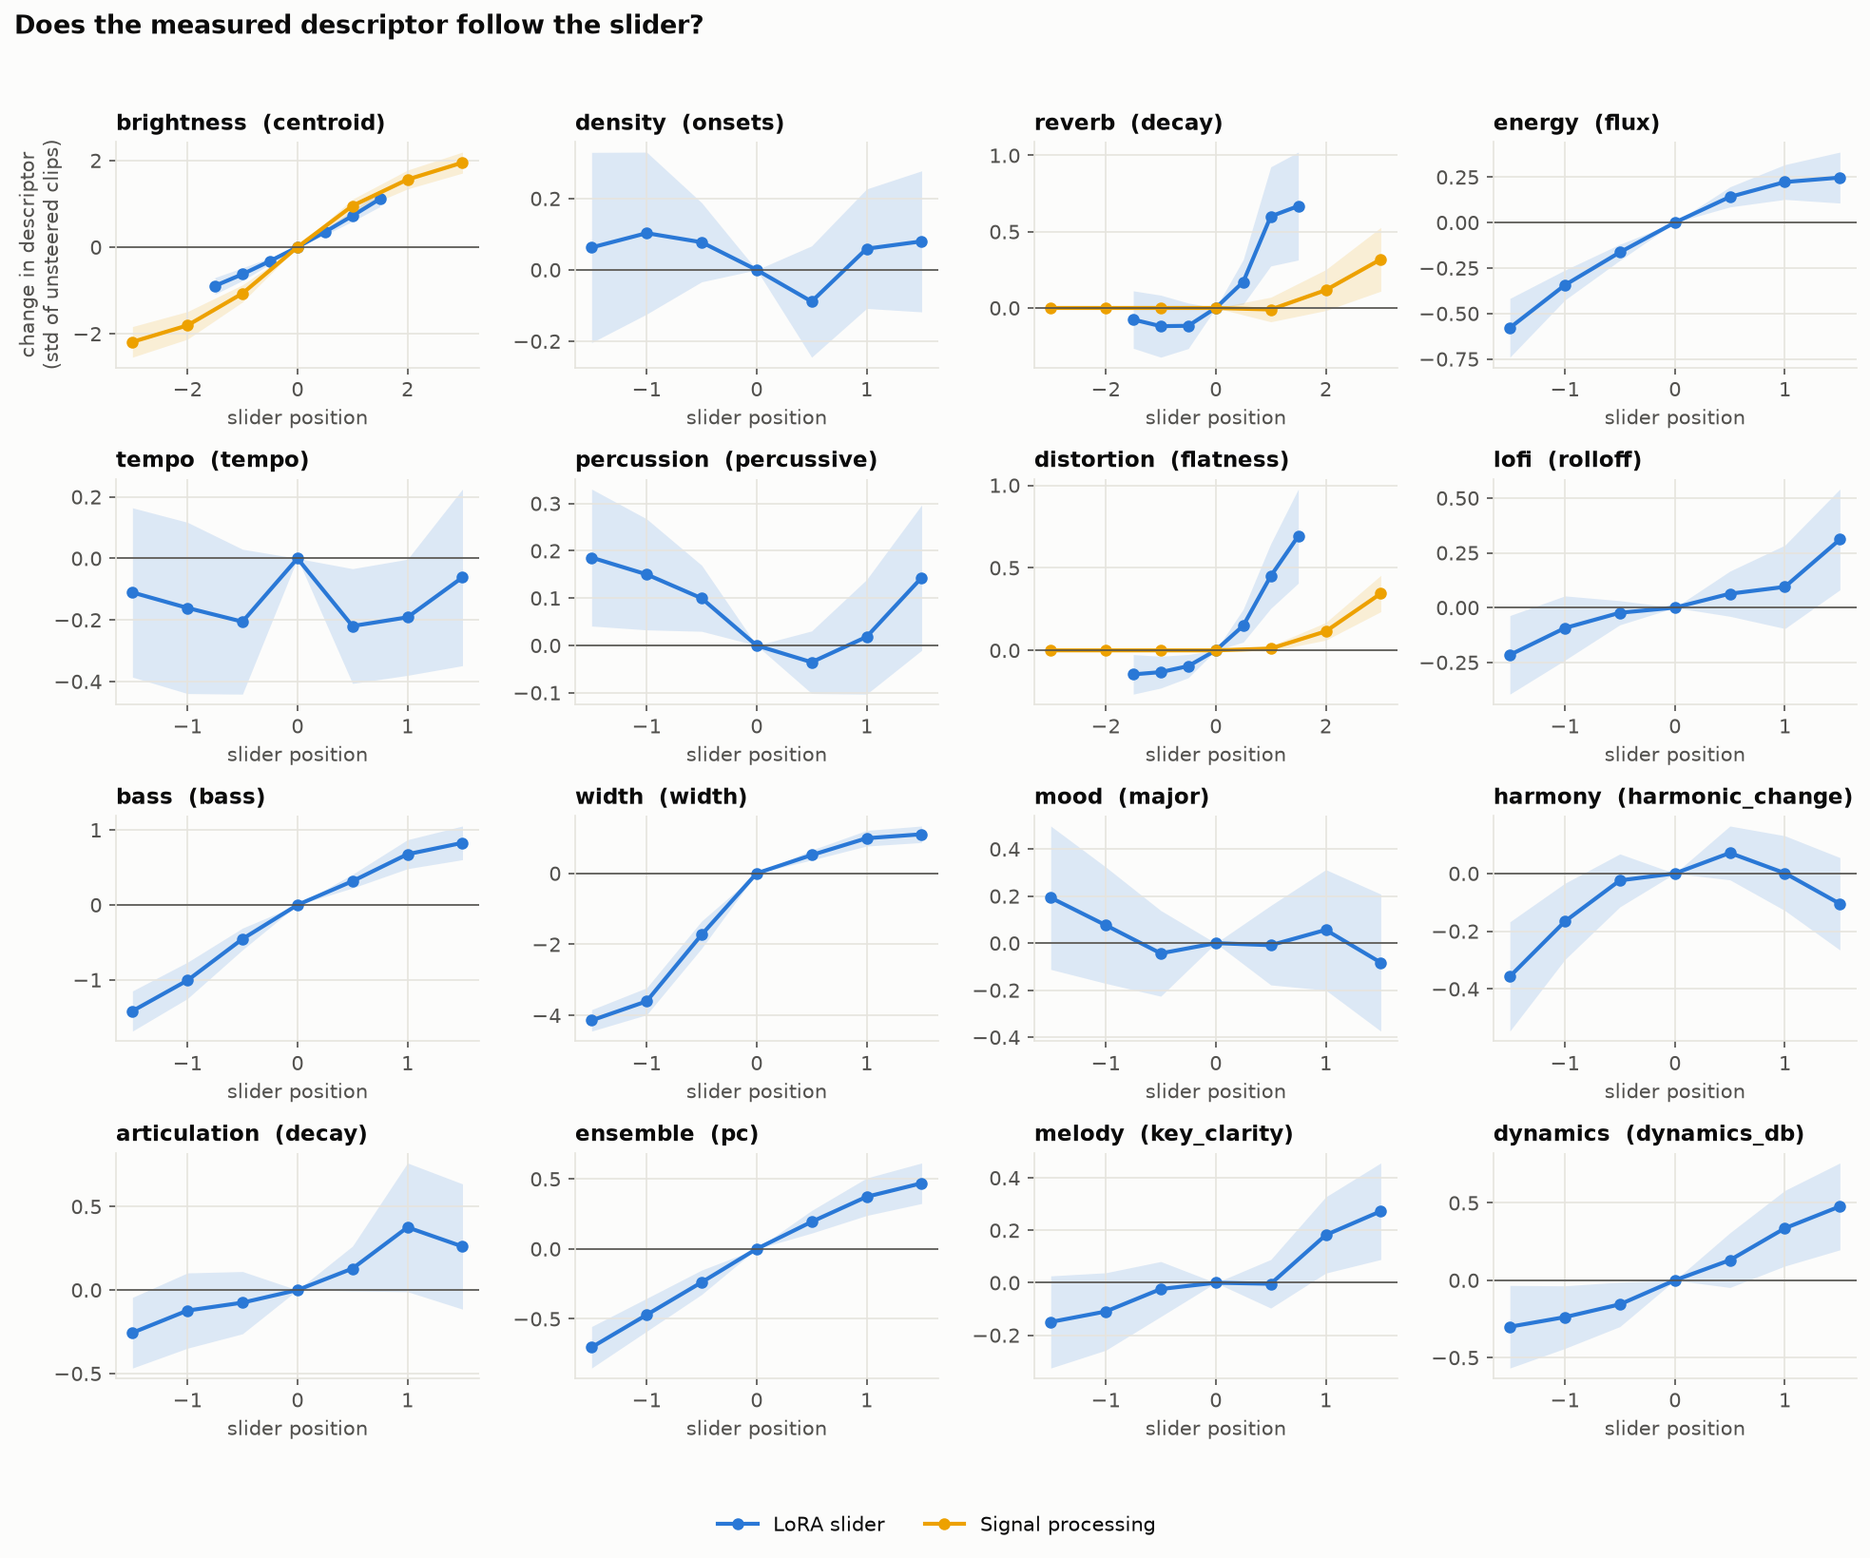
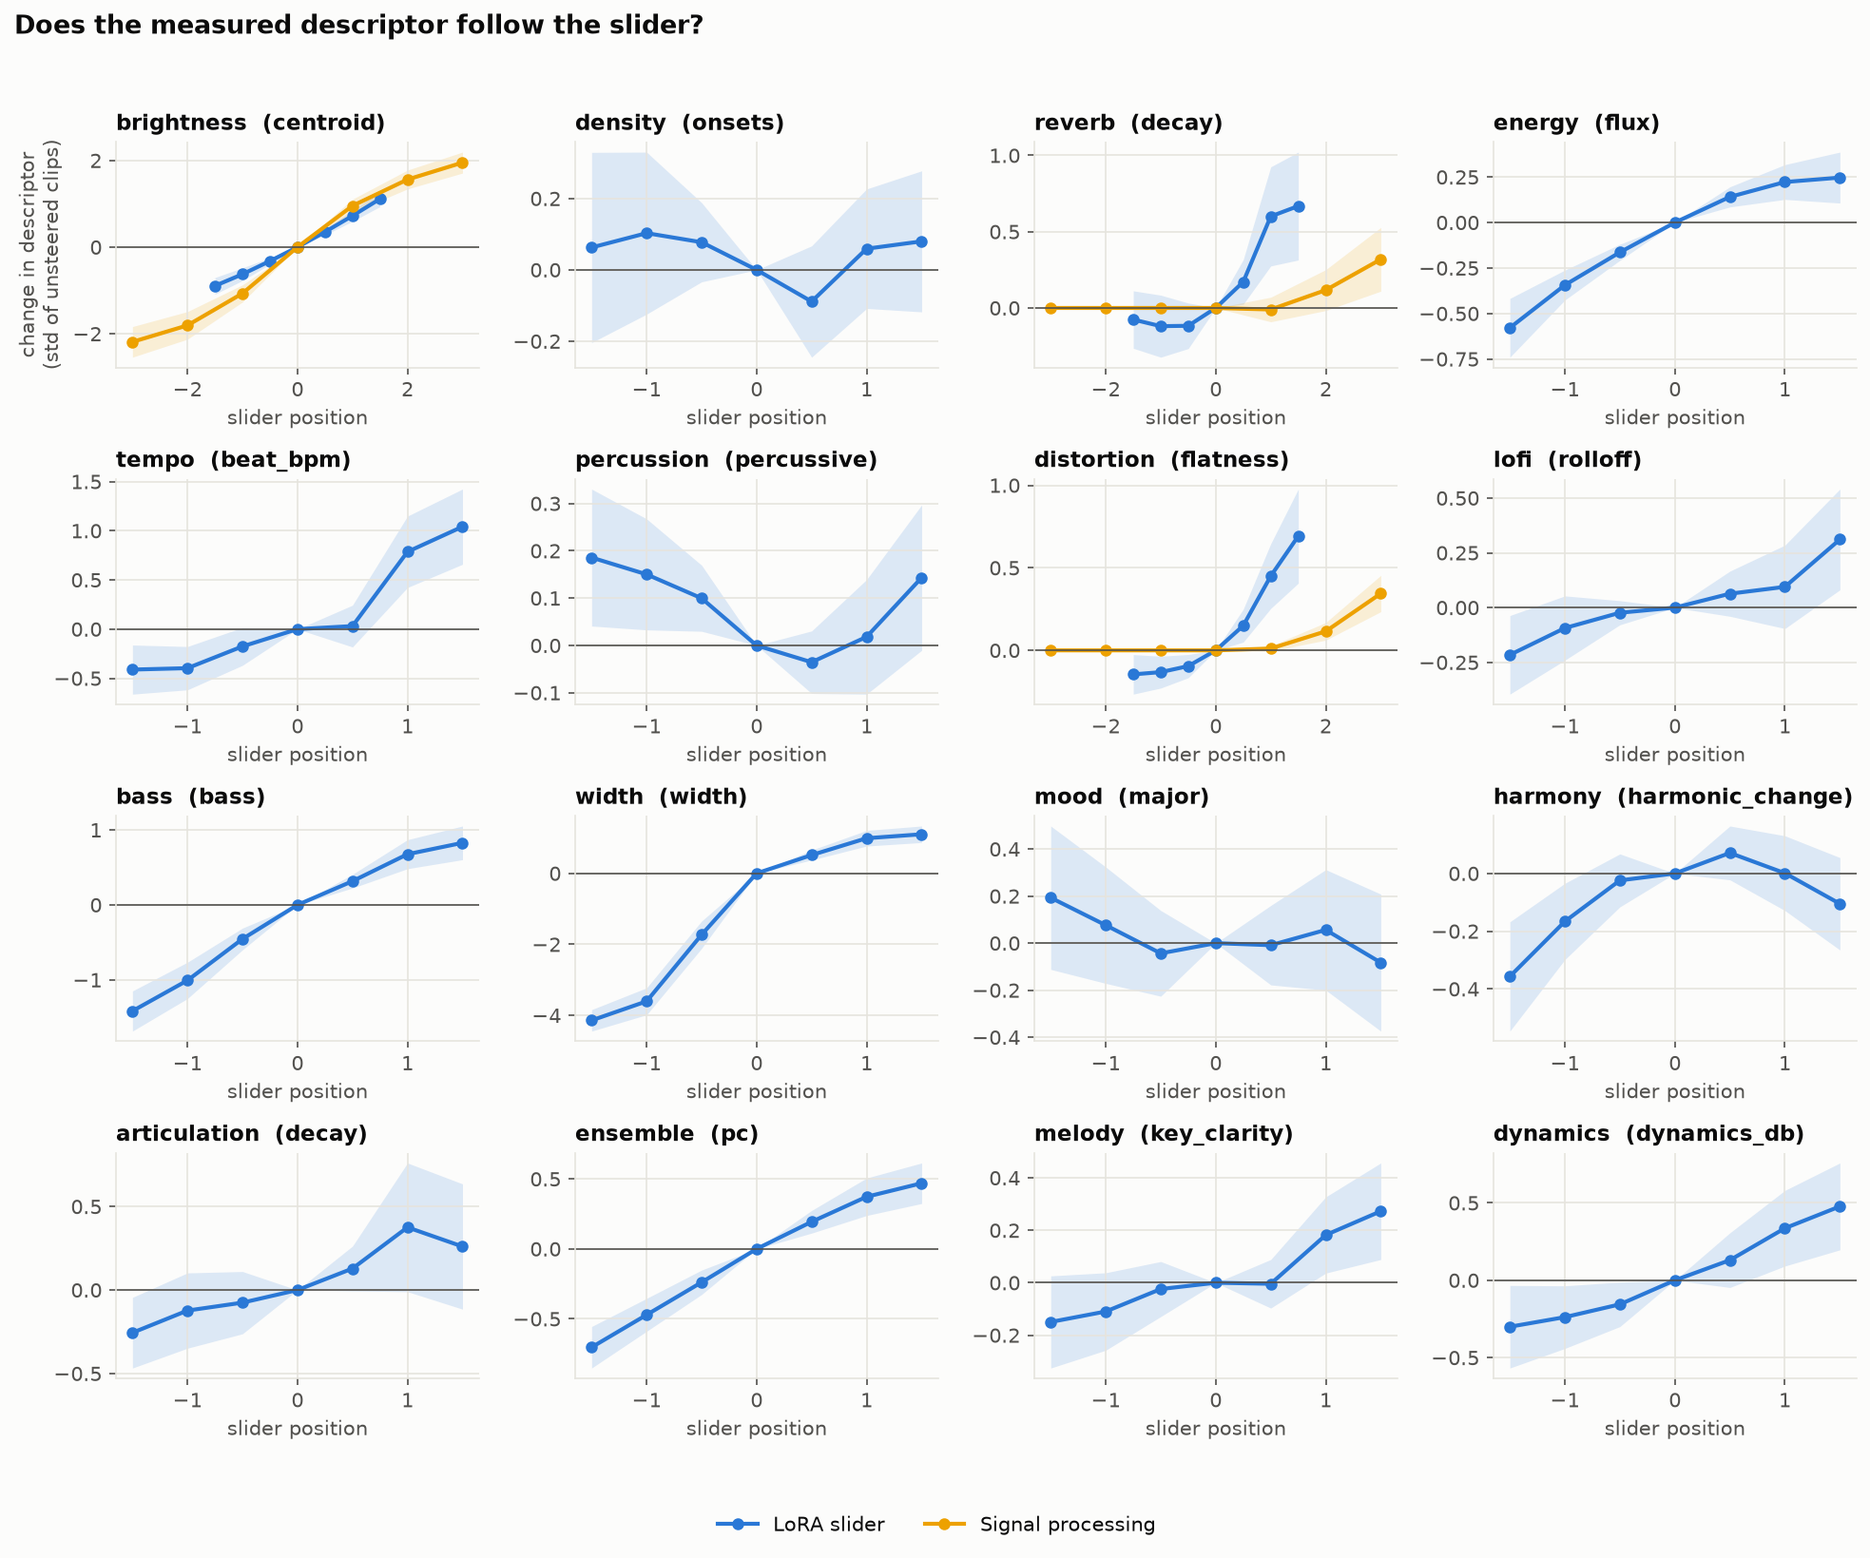
Correct the tempo verdict and add MuQ-MuLan confirmation
With a beat tracker in place of the librosa tempo estimate, the Stable Audio
tempo slider follows its descriptor (rho 0.57, mean tempo 90 to 167 BPM). The
earlier failing score was an artifact of octave errors in the estimate; the
README table listed it as failing and is fixed.

MuQ-MuLan, which shares nothing with CLAP, agrees with the direction test on
all eight ACE-Step sliders (rho 0.56 to 0.89, 94 to 100% ordered).

Changed region(s): [[0.031, 0.3112, 0.2481, 0.4667], [0.124, 0.28, 0.1861, 0.3112]]

diff --git a/paper/tables/main.tex b/paper/tables/main.tex
@@ -7,7 +7,7 @@ brightness & centroid\_oct & 0.84 & 0.96 & -1.0 to +1.5 & 1.74 & 0.82 & 6.04 & 5
 density & onset\_rate & 0.30 & 0.75 & -1.5 to +1.0 & -0.00 & 0.82 & 6.04 & 5.50 \\
 reverb & decay\_s & 0.37 & 0.79 & -1.0 to +1.0 & 0.66 & 0.77 & 6.04 & 5.15 \\
 energy & flux & 0.71 & 0.94 & -1.5 to +0.5 & 0.72 & 0.82 & 6.04 & 5.15 \\
-tempo & pulse\_bpm & -0.01 & 0.29 & -1.5 to +1.0 & -0.08 & 0.80 & 6.04 & 5.47 \\
+tempo & beat\_bpm & 0.57 & 0.78 & -1.5 to +1.0 & 1.21 & 0.80 & 6.04 & 5.47 \\
 percussion & percussive\_ratio & 0.34 & 0.71 & -1.5 to +1.5 & -0.04 & 0.77 & 6.04 & 5.92 \\
 distortion & flatness & 0.50 & 0.81 & -1.5 to +0.5 & 0.30 & 0.89 & 6.04 & 5.44 \\
 lofi & rolloff\_oct & 0.28 & 0.68 & -1.5 to +0.5 & 0.28 & 0.85 & 6.04 & 4.91 \\

diff --git a/README.md b/README.md
@@ -16,18 +16,18 @@
 
 Eight sliders on ACE-Step 1.5 XL turbo, each trained from one prompt pair in about 20 minutes. 24 held-out prompts, 3 seeds, 9 slider positions, 648 clips per slider.
 
-| Slider | What rises toward + (CLAP tags) | What falls | Measured descriptor follows? (ρ, ends ordered) | Usable span | Piece kept | Enjoyment at the ends |
-|---|---|---|---|---|---:|---:|
-| [**mood**](https://takakhoo.github.io/audio-diffusion-control/?model=ace&method=lora&slider=mood&prompt=0&x=2) (sad to happy) | happy, latin, reggae | distorted, dark-toned, lo-fi | major/minor fit: 0.39, 75% | -1 to +2 | 0.79 | 6.65 |
-| [**ensemble**](https://takakhoo.github.io/audio-diffusion-control/?model=ace&method=lora&slider=ensemble&prompt=0&x=2) (solo to full) | orchestral film score, epic, choir | straight, funk, hip hop | production complexity: 0.60, 90% | -1.5 to +2 | 0.80 | 6.56 |
-| [**groove**](https://takakhoo.github.io/audio-diffusion-control/?model=ace&method=lora&slider=groove&prompt=0&x=2) (stiff to groovy) | latin, funk, reggae | choir, strings, cello | no descriptor assigned | -1.5 to +2 | 0.79 | 6.88 |
-| [**harmony**](https://takakhoo.github.io/audio-diffusion-control/?model=ace&method=lora&slider=harmony&prompt=0&x=2) (plain to rich) | minor key, melancholic, major key | country, vocals, violin | harmonic change rate: 0.41, 76% | -1.5 to +2 | 0.83 | 6.64 |
-| [**melody**](https://takakhoo.github.io/audio-diffusion-control/?model=ace&method=lora&slider=melody&prompt=0&x=2) (texture to tune) | romantic, happy, blues | lo-fi, mysterious, calm | key clarity: 0.48, 78% | -1 to +2 | 0.80 | 6.47 |
-| [**tension**](https://takakhoo.github.io/audio-diffusion-control/?model=ace&method=lora&slider=tension&prompt=0&x=1) (relaxed to tense) | metal, rock, distorted | melancholic, uplifting, sad | no descriptor assigned | -1.5 to +1 | 0.83 | 5.64 |
-| [**brightness**](https://takakhoo.github.io/audio-diffusion-control/?model=ace&method=lora&slider=brightness&prompt=0&x=2) (dark to bright) | happy, repetitive, romantic | dark-toned, lo-fi, quiet | spectral centroid: 0.97, 100% | -1 to +2 | 0.74 | 6.04 |
-| [**density**](https://takakhoo.github.io/audio-diffusion-control/?model=ace&method=lora&slider=density&prompt=0&x=2) (sparse to dense) | latin, repetitive, romantic | dark-toned, quiet, lo-fi | onset rate: 0.78, 92% | -0.5 to +2 | 0.84 | 6.09 |
+| Slider | What rises toward + (CLAP tags) | What falls | Measured descriptor follows? (ρ, ends ordered) | Second model agrees? (MuQ ρ, ordered) | Usable span | Piece kept | Enjoyment at the ends |
+|---|---|---|---|---|---|---:|---:|
+| [**mood**](https://takakhoo.github.io/audio-diffusion-control/?model=ace&method=lora&slider=mood&prompt=0&x=2) (sad to happy) | happy, latin, reggae | distorted, dark-toned, lo-fi | major/minor fit: 0.39, 75% | 0.88, 100% | -1 to +2 | 0.79 | 6.65 |
+| [**ensemble**](https://takakhoo.github.io/audio-diffusion-control/?model=ace&method=lora&slider=ensemble&prompt=0&x=2) (solo to full) | orchestral film score, epic, choir | straight, funk, hip hop | production complexity: 0.60, 90% | 0.77, 94% | -1.5 to +2 | 0.80 | 6.56 |
+| [**groove**](https://takakhoo.github.io/audio-diffusion-control/?model=ace&method=lora&slider=groove&prompt=0&x=2) (stiff to groovy) | latin, funk, reggae | choir, strings, cello | no descriptor assigned | 0.56, 96% | -1.5 to +2 | 0.79 | 6.88 |
+| [**harmony**](https://takakhoo.github.io/audio-diffusion-control/?model=ace&method=lora&slider=harmony&prompt=0&x=2) (plain to rich) | minor key, melancholic, major key | country, vocals, violin | harmonic change rate: 0.41, 76% | 0.73, 96% | -1.5 to +2 | 0.83 | 6.64 |
+| [**melody**](https://takakhoo.github.io/audio-diffusion-control/?model=ace&method=lora&slider=melody&prompt=0&x=2) (texture to tune) | romantic, happy, blues | lo-fi, mysterious, calm | key clarity: 0.48, 78% | 0.89, 100% | -1 to +2 | 0.80 | 6.47 |
+| [**tension**](https://takakhoo.github.io/audio-diffusion-control/?model=ace&method=lora&slider=tension&prompt=0&x=1) (relaxed to tense) | metal, rock, distorted | melancholic, uplifting, sad | no descriptor assigned | 0.86, 100% | -1.5 to +1 | 0.83 | 5.64 |
+| [**brightness**](https://takakhoo.github.io/audio-diffusion-control/?model=ace&method=lora&slider=brightness&prompt=0&x=2) (dark to bright) | happy, repetitive, romantic | dark-toned, lo-fi, quiet | spectral centroid: 0.97, 100% | 0.80, 100% | -1 to +2 | 0.74 | 6.04 |
+| [**density**](https://takakhoo.github.io/audio-diffusion-control/?model=ace&method=lora&slider=density&prompt=0&x=2) (sparse to dense) | latin, repetitive, romantic | dark-toned, quiet, lo-fi | onset rate: 0.78, 92% | 0.86, 100% | -0.5 to +2 | 0.84 | 6.09 |
 
-Each slider name opens the live demo on that slider. For scale: unsteered clips score 6.95 on Audiobox Aesthetics content enjoyment, and 2,000 real recordings from FMA average 6.1. "Usable span" is how far the slider goes before mean enjoyment falls more than 0.5 below the unsteered clips. "Piece kept" is CLAP similarity to the unsteered clip at the ends of that span. Full tables: [`results/ace/`](results/ace/).
+Each slider name opens the live demo on that slider. The tag columns and the direction score come from CLAP; the "second model" column repeats the direction test with MuQ-MuLan, a music-text model that shares nothing with CLAP, and it agrees on all eight. For scale: unsteered clips score 6.95 on Audiobox Aesthetics content enjoyment, and 2,000 real recordings from FMA average 6.1. "Usable span" is how far the slider goes before mean enjoyment falls more than 0.5 below the unsteered clips. "Piece kept" is CLAP similarity to the unsteered clip at the ends of that span. Full tables: [`results/ace/`](results/ace/).
 
 **Target venue: ISMIR 2027** (London, September 2027; six pages, double-blind). The draft in [`paper/`](paper/) is already on the official ISMIR template and within its limits. Why this venue, its rules, and what the paper still needs to be competitive there are in [`docs/VENUE.md`](docs/VENUE.md).
 
@@ -99,14 +99,17 @@ All 20 prompt-pair sliders were trained on Stable Audio Open and evaluated with 
 
 | Follows its descriptor | ρ | Ends ordered | | Does not | ρ | Ends ordered |
 |---|---:|---:|---|---|---:|---:|
-| width (side/mid energy) | 0.95 ± 0.01 | 100% | | tempo (beat tracker) | -0.01 ± 0.14 | 29% |
-| bass (energy below 150 Hz) | 0.92 ± 0.05 | 97% | | mood (major/minor fit) | -0.04 ± 0.13 | 43% |
-| brightness (centroid) | 0.84 ± 0.04 | 96% | | harmony (harmonic change) | 0.19 ± 0.14 | 64% |
-| energy (spectral flux) | 0.71 ± 0.08 | 94% | | density (onset rate) | 0.30 ± 0.16, no net change | 75% |
-| ensemble (production complexity) | 0.70 ± 0.09 | 93% | | percussion (percussive share) | 0.34 ± 0.18, no net change | 71% |
+| width (side/mid energy) | 0.95 ± 0.01 | 100% | | mood (major/minor fit) | -0.04 ± 0.13 | 43% |
+| bass (energy below 150 Hz) | 0.92 ± 0.05 | 97% | | harmony (harmonic change) | 0.19 ± 0.14 | 64% |
+| brightness (centroid) | 0.84 ± 0.04 | 96% | | density (onset rate) | 0.30 ± 0.16, no net change | 75% |
+| energy (spectral flux) | 0.71 ± 0.08 | 94% | | percussion (percussive share) | 0.34 ± 0.18, no net change | 71% |
+| ensemble (production complexity) | 0.70 ± 0.09 | 93% | | | | |
+| tempo (beat tracker) | 0.57 ± 0.09 | 78% | | | | |
 | distortion (spectral flatness) | 0.50 ± 0.12 | 81% | | | | |
 
-Timbre and space pass. Rhythm and tonality do not: the tempo, density, and percussion sliders drift toward their words in the embedding while the beat tracker, the onset count, and the percussive share stay where they were. Scored by embedding alone, as published audio sliders are, all of these would be reported as working. Full table: [`results/main/summary.md`](results/main/summary.md).
+Timbre, space, and tempo pass: the tempo slider takes the mean beat-tracked tempo from 90 to 167 BPM across its range. Tonality, note density, and percussion do not: those sliders drift toward their words in the embedding while the key fit, the onset count, and the percussive share stay where they were. Scored by embedding alone, as published audio sliders are, all of these would be reported as working.
+
+The measuring tool matters too. With the common librosa tempo estimate, which makes octave errors, the tempo slider scored ρ = -0.01 and looked like a failure. A modern beat tracker (Beat This) shows it works. A descriptor test is only as good as its descriptor. Full table: [`results/main/summary.md`](results/main/summary.md).
 
 The backbone matters. On ACE-Step the same density prompt pair does move the onset rate (ρ = 0.78), and mood follows the major/minor fit there.
 

diff --git a/results/main/summary.md b/results/main/summary.md
@@ -1,25 +1,25 @@
 | Slider | Method | Monotonicity ρ | Ends ordered | MuQ ρ | MuQ ordered | Usable from | to | Descriptor moved (std) | CLAP moved | Piece kept | Quality at 0 | Quality at ends |
 |---|---|---:|---:|---:|---:|---:|---:|---:|---:|---:|---:|---:|
-| brightness | LoRA slider | 0.84 ± 0.07 | 0.96 |  |  | -1.0 | 1.5 | 1.74 ± 0.27 | 0.119 | 0.82 | 6.04 | 5.42 |
+| brightness | LoRA slider | 0.84 ± 0.07 | 0.96 | 0.53 ± 0.10 | 0.89 | -1.0 | 1.5 | 1.74 ± 0.27 | 0.119 | 0.82 | 6.04 | 5.42 |
 | brightness | Signal processing | 1.00 ± 0.00 | 1.00 |  |  | -3.0 | 3.0 | 4.14 ± 0.49 | 0.258 | 0.89 | 6.06 | 5.70 |
-| density | LoRA slider | 0.30 ± 0.16 | 0.75 |  |  | -1.5 | 1.0 | -0.00 ± 0.32 | 0.108 | 0.82 | 6.04 | 5.50 |
+| density | LoRA slider | 0.30 ± 0.16 | 0.75 | 0.60 ± 0.11 | 0.88 | -1.5 | 1.0 | -0.00 ± 0.32 | 0.108 | 0.82 | 6.04 | 5.50 |
 | reverb | LoRA slider | 0.37 ± 0.12 | 0.79 |  |  | -1.0 | 1.0 | 0.66 ± 0.36 | 0.178 | 0.77 | 6.04 | 5.15 |
 | reverb | Signal processing | 0.46 ± 0.15 | 0.79 |  |  | -3.0 | 2.0 | 0.12 ± 0.13 | 0.084 | 0.91 | 6.06 | 5.73 |
-| energy | LoRA slider | 0.71 ± 0.08 | 0.94 |  |  | -1.5 | 0.5 | 0.72 ± 0.16 | 0.173 | 0.82 | 6.04 | 5.15 |
-| tempo | LoRA slider | -0.01 ± 0.14 | 0.29 |  |  | -1.5 | 1.0 | -0.08 ± 0.26 | 0.123 | 0.80 | 6.04 | 5.47 |
+| energy | LoRA slider | 0.71 ± 0.08 | 0.94 | 0.72 ± 0.08 | 0.96 | -1.5 | 0.5 | 0.72 ± 0.16 | 0.173 | 0.82 | 6.04 | 5.15 |
+| tempo | LoRA slider | 0.57 ± 0.09 | 0.78 |  |  | -1.5 | 1.0 | 1.21 ± 0.43 | 0.123 | 0.80 | 6.04 | 5.47 |
 | percussion | LoRA slider | 0.34 ± 0.18 | 0.71 |  |  | -1.5 | 1.5 | -0.04 ± 0.24 | 0.115 | 0.77 | 6.04 | 5.92 |
-| distortion | LoRA slider | 0.50 ± 0.12 | 0.81 |  |  | -1.5 | 0.5 | 0.30 ± 0.18 | 0.059 | 0.89 | 6.04 | 5.44 |
+| distortion | LoRA slider | 0.50 ± 0.12 | 0.81 | 0.17 ± 0.13 | 0.65 | -1.5 | 0.5 | 0.30 ± 0.18 | 0.059 | 0.89 | 6.04 | 5.44 |
 | distortion | Signal processing | 0.63 ± 0.13 | 0.90 |  |  | -3.0 | 1.0 | 0.01 ± 0.02 | 0.044 | 0.98 | 6.06 | 5.18 |
 | lofi | LoRA slider | 0.28 ± 0.15 | 0.68 |  |  | -1.5 | 0.5 | 0.28 ± 0.20 | 0.104 | 0.85 | 6.04 | 4.91 |
-| bass | LoRA slider | 0.92 ± 0.05 | 0.97 |  |  | -1.0 | 1.0 | 1.68 ± 0.31 | 0.133 | 0.85 | 6.04 | 5.37 |
+| bass | LoRA slider | 0.92 ± 0.05 | 0.97 | 0.59 ± 0.10 | 0.89 | -1.0 | 1.0 | 1.68 ± 0.31 | 0.133 | 0.85 | 6.04 | 5.37 |
 | width | LoRA slider | 0.95 ± 0.01 | 1.00 |  |  | -1.0 | 1.5 | 4.70 ± 0.36 | 0.096 | 0.80 | 6.04 | 5.53 |
 | mood | LoRA slider | -0.04 ± 0.13 | 0.43 |  |  | -1.5 | 1.5 | -0.28 ± 0.32 | 0.165 | 0.79 | 6.04 | 5.85 |
-| electronic | LoRA slider |  |  |  |  | -1.5 | 1.5 |  | 0.196 | 0.74 | 6.04 | 6.02 |
+| electronic | LoRA slider |  |  | 0.52 ± 0.12 | 0.89 | -1.5 | 1.5 |  | 0.196 | 0.74 | 6.04 | 6.02 |
 | harmony | LoRA slider | 0.19 ± 0.14 | 0.64 |  |  | -1.0 | 1.5 | 0.06 ± 0.18 | 0.032 | 0.83 | 6.04 | 5.54 |
-| groove | LoRA slider |  |  |  |  | -0.5 | 1.5 |  | 0.069 | 0.85 | 6.04 | 5.79 |
-| articulation | LoRA slider | 0.33 ± 0.13 | 0.74 |  |  | -1.0 | 1.0 | 0.43 ± 0.44 | 0.047 | 0.87 | 6.04 | 5.48 |
-| ensemble | LoRA slider | 0.70 ± 0.09 | 0.93 |  |  | -1.0 | 1.5 | 0.94 ± 0.18 | 0.129 | 0.81 | 6.04 | 5.66 |
+| groove | LoRA slider |  |  | 0.07 ± 0.13 | 0.56 | -0.5 | 1.5 |  | 0.069 | 0.85 | 6.04 | 5.79 |
+| articulation | LoRA slider | 0.33 ± 0.13 | 0.74 | 0.22 ± 0.14 | 0.62 | -1.0 | 1.0 | 0.43 ± 0.44 | 0.047 | 0.87 | 6.04 | 5.48 |
+| ensemble | LoRA slider | 0.70 ± 0.09 | 0.93 | 0.35 ± 0.12 | 0.69 | -1.0 | 1.5 | 0.94 ± 0.18 | 0.129 | 0.81 | 6.04 | 5.66 |
 | tension | LoRA slider |  |  |  |  | -1.5 | 1.0 |  | 0.095 | 0.84 | 6.04 | 5.65 |
 | vintage | LoRA slider |  |  |  |  | -1.5 | 1.0 |  | 0.089 | 0.82 | 6.04 | 5.50 |
 | melody | LoRA slider | 0.26 ± 0.13 | 0.65 |  |  | -1.0 | 1.5 | 0.38 ± 0.21 | 0.078 | 0.83 | 6.04 | 5.84 |
-| dynamics | LoRA slider | 0.26 ± 0.15 | 0.67 |  |  | -1.0 | 1.0 | 0.57 ± 0.34 | 0.082 | 0.86 | 6.04 | 5.44 |
+| dynamics | LoRA slider | 0.26 ± 0.15 | 0.67 | -0.22 ± 0.12 | 0.31 | -1.0 | 1.0 | 0.57 ± 0.34 | 0.082 | 0.86 | 6.04 | 5.44 |

diff --git a/results/ace/summary.md b/results/ace/summary.md
@@ -1,10 +1,10 @@
-| Slider | Method | Monotonicity ρ | Ends ordered | Usable from | to | Descriptor moved (std) | CLAP moved | Piece kept | Quality at 0 | Quality at ends |
-|---|---|---:|---:|---:|---:|---:|---:|---:|---:|---:|
-| brightness | LoRA slider | 0.97 ± 0.01 | 1.00 | -1.0 | 2.0 | 4.41 ± 0.41 | 0.300 | 0.74 | 6.95 | 6.04 |
-| density | LoRA slider | 0.78 ± 0.09 | 0.92 | -0.5 | 2.0 | 1.25 ± 0.20 | 0.168 | 0.84 | 6.95 | 6.09 |
-| mood | LoRA slider | 0.39 ± 0.10 | 0.75 | -1.0 | 2.0 | 0.87 ± 0.32 | 0.230 | 0.79 | 6.95 | 6.65 |
-| harmony | LoRA slider | 0.41 ± 0.12 | 0.76 | -1.5 | 2.0 | 0.84 ± 0.24 | 0.124 | 0.83 | 6.95 | 6.64 |
-| groove | LoRA slider |  |  | -1.5 | 2.0 |  | 0.090 | 0.79 | 6.95 | 6.88 |
-| ensemble | LoRA slider | 0.60 ± 0.10 | 0.90 | -1.5 | 2.0 | 0.92 ± 0.18 | 0.163 | 0.80 | 6.95 | 6.56 |
-| tension | LoRA slider |  |  | -1.5 | 1.0 |  | 0.035 | 0.83 | 6.95 | 5.64 |
-| melody | LoRA slider | 0.48 ± 0.11 | 0.78 | -1.0 | 2.0 | 0.97 ± 0.28 | 0.235 | 0.80 | 6.95 | 6.47 |
+| Slider | Method | Monotonicity ρ | Ends ordered | MuQ ρ | MuQ ordered | Usable from | to | Descriptor moved (std) | CLAP moved | Piece kept | Quality at 0 | Quality at ends |
+|---|---|---:|---:|---:|---:|---:|---:|---:|---:|---:|---:|---:|
+| brightness | LoRA slider | 0.97 ± 0.01 | 1.00 | 0.80 ± 0.04 | 1.00 | -1.0 | 2.0 | 4.41 ± 0.41 | 0.300 | 0.74 | 6.95 | 6.04 |
+| density | LoRA slider | 0.78 ± 0.09 | 0.92 | 0.86 ± 0.04 | 1.00 | -0.5 | 2.0 | 1.25 ± 0.20 | 0.168 | 0.84 | 6.95 | 6.09 |
+| mood | LoRA slider | 0.39 ± 0.10 | 0.75 | 0.88 ± 0.03 | 1.00 | -1.0 | 2.0 | 0.87 ± 0.32 | 0.230 | 0.79 | 6.95 | 6.65 |
+| harmony | LoRA slider | 0.41 ± 0.12 | 0.76 | 0.73 ± 0.05 | 0.96 | -1.5 | 2.0 | 0.84 ± 0.24 | 0.124 | 0.83 | 6.95 | 6.64 |
+| groove | LoRA slider |  |  | 0.56 ± 0.08 | 0.96 | -1.5 | 2.0 |  | 0.090 | 0.79 | 6.95 | 6.88 |
+| ensemble | LoRA slider | 0.60 ± 0.10 | 0.90 | 0.77 ± 0.07 | 0.94 | -1.5 | 2.0 | 0.92 ± 0.18 | 0.163 | 0.80 | 6.95 | 6.56 |
+| tension | LoRA slider |  |  | 0.86 ± 0.04 | 1.00 | -1.5 | 1.0 |  | 0.035 | 0.83 | 6.95 | 5.64 |
+| melody | LoRA slider | 0.48 ± 0.11 | 0.78 | 0.89 ± 0.04 | 1.00 | -1.0 | 2.0 | 0.97 ± 0.28 | 0.235 | 0.80 | 6.95 | 6.47 |
